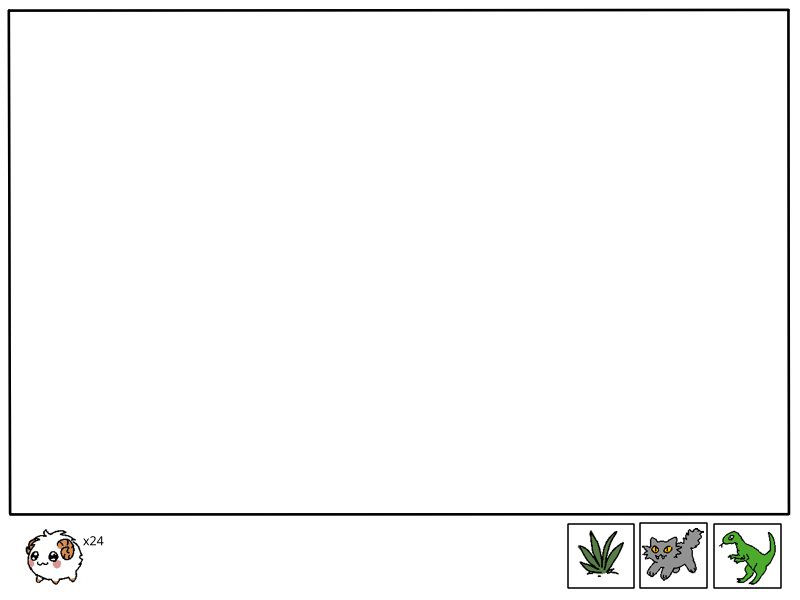
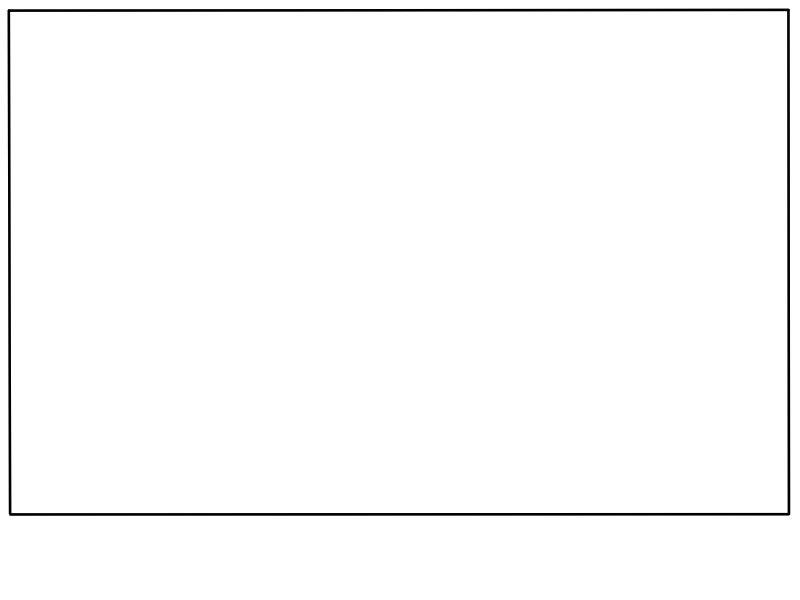
Add basic UI elements

Changed region(s): [[0.6875, 0.87, 1.0, 0.99], [0.0312, 0.87, 0.125, 0.99]]

diff --git a/src/index.ts b/src/index.ts
@@ -1,4 +1,4 @@
-import {range, random} from 'lodash-es';
+import {range, random, values} from 'lodash-es';
 import {Game, Scene, GameObjects, Types, Math as PhaserMath, Geom, Sound} from 'phaser';
 import {deltaInterp} from './Utilities';
 import {Grid} from './Grid';
@@ -7,8 +7,21 @@ import borderImage from './assets/borders.png';
 import uiFrameImage from './assets/ui_frame.png';
 import musicImage from './assets/music.png';
 import noMusicImage from './assets/nomusic.png';
+import powerImage from './assets/power.png';
+import abilityFrameImage from './assets/ability_frame.png';
+import sheepAbilityImage from './assets/sheep_ability.png';
+import grassAbilityImage from './assets/grass_ability.png';
 import musicSound from './assets/music.mp3';
 import clickSound from './assets/click.mp3';
+import failSound from './assets/fail.mp3';
+
+interface Ability {
+  name: string,
+  description: string,
+  image: string,
+  cost: number,
+  do: (grid: Grid, x: number, y: number) => unknown,
+};
 
 export class MainScene extends Scene {
   ui!: GameObjects.Container;
@@ -17,14 +30,21 @@ export class MainScene extends Scene {
   height = 1;
   maxZoom = 5.5;
   keys!: Types.Input.Keyboard.CursorKeys;
-  mouseDown = false;
+  dragging = false;
+  justClicked = false;
   lastMousePosition = new PhaserMath.Vector2();
   newMousePosition = new PhaserMath.Vector2();
   musicToggle!: GameObjects.Image;
+  powerDisplay!: GameObjects.Text;
   gridBounds: Geom.Rectangle = new Geom.Rectangle(10, 10, 778, 504);
   sounds: Record<string, Sound.BaseSound> = {};
   borders!: GameObjects.TileSprite;
-  grid = new Grid(this, 129, 80);
+  grid = new Grid(this, 129, 80, 32);
+  power = 0;
+  powerGainRate = 1;
+  abilities: Record<string, Ability> = {};
+  currentAbility: Ability | null = null;
+  justClickedAbility = false;
 
   constructor() {
     super({key: 'main'});
@@ -35,8 +55,13 @@ export class MainScene extends Scene {
     this.load.image('ui_frame', uiFrameImage);
     this.load.image('music', musicImage);
     this.load.image('nomusic', noMusicImage);
+    this.load.image('ability_frame', abilityFrameImage);
+    this.load.image('sheep_ability', sheepAbilityImage);
+    this.load.image('grass_ability', grassAbilityImage);
+    this.load.image('power', powerImage);
     this.load.audio('music', musicSound);
     this.load.audio('click', clickSound);
+    this.load.audio('fail', failSound);
     this.grid.preload();
   }
 
@@ -67,11 +92,44 @@ export class MainScene extends Scene {
     }
 
     this.keys = this.input.keyboard.createCursorKeys();
+    this.input.mouse.disableContextMenu();
 
     this.ui = this.add.container();
     this.ui.add(this.add.image(0, 0, 'ui_frame').setOrigin(0, 0));
-    this.musicToggle = this.add.image(145, 556, 'music').setScale(0.2).setInteractive().on('pointerdown', this.toggleMusic, this);
+    this.musicToggle = this.add.image(45, 556, 'music').setScale(0.2).setInteractive().on('pointerdown', this.toggleMusic, this);
     this.ui.add(this.musicToggle);
+    this.ui.add(this.add.image(125, 556, 'power').setScale(0.15));
+    this.powerDisplay = this.add.text(155, 526, 'x0', {fontFamily: 'Helvetica', fontSize: '20px', color: '0x000'});
+    this.ui.add(this.powerDisplay);
+
+    this.abilities = {
+      sheep: {
+        name: 'Sheep',
+        description: 'Make a sheep',
+        image: 'sheep_ability',
+        cost: 3,
+        do: (grid, x, y) => {
+          return grid.tryAdd(new Sheep(x, y));
+        },
+      },
+      grass: {
+        name: 'Grass',
+        description: 'Make a grass',
+        image: 'grass_ability',
+        cost: 1,
+        do: (grid, x, y) => {
+          return grid.tryAdd(new Grass(x, y));
+        },
+      }
+    };
+
+    values(this.abilities).map((ability, index) => {
+      const x = this.sys.game.canvas.width - 50 - 80 * index;
+      const frame = this.add.image(x, 556, 'ability_frame');
+      const image = this.add.image(x, 556, ability.image);
+      this.ui.add(frame).add(image);
+      image.setInteractive().on('pointerdown', () => this.startAbility(ability));
+    });
 
     const uiCamera = this.cameras.add(0, 0, this.sys.game.canvas.width, this.sys.game.canvas.height);
     uiCamera.ignore(this.grid.container);
@@ -80,9 +138,9 @@ export class MainScene extends Scene {
 
     this.sounds = {
       music: this.sound.add('music', { loop: true }),
-      click: this.sound.add('click', { volume: 0.4 }),
+      click: this.sound.add('click', { volume: 0.3 }),
+      fail: this.sound.add('fail'),
     };
-    this.sounds.music.play();
   }
 
   toggleMusic() {
@@ -96,6 +154,33 @@ export class MainScene extends Scene {
     }
   }
 
+  startAbility(ability: Ability) {
+    if(this.power > ability.cost) {
+      this.sounds.click.play();
+      this.currentAbility = ability;
+      this.justClickedAbility = true;
+    } else {
+      this.sounds.fail.play();
+    }
+  }
+
+  finishAbility() {
+    if(!this.currentAbility) { return; }
+    if(this.power > this.currentAbility.cost) {
+      const position = this.cameras.main.getWorldPoint(this.input.manager.activePointer.x, this.input.manager.activePointer.y, this.newMousePosition);
+      const x = Math.floor(position.x / this.grid.tileSize);
+      const y = Math.floor(position.y / this.grid.tileSize);
+      if(this.currentAbility.do(this.grid, x, y)) {
+        this.power -= this.currentAbility.cost;
+        this.sounds.click.play();
+      } else {
+        this.sounds.fail.play();
+      }
+    } else {
+      this.sounds.fail.play();
+    }
+  }
+
   update(time: number, delta: number) {
     this.accumulator += delta;
     if(this.accumulator > 1000) {
@@ -104,8 +189,11 @@ export class MainScene extends Scene {
     }
     this.grid.update();
 
+    this.power += this.powerGainRate * delta * 0.001;
+    this.powerDisplay.setText(`x${Math.floor(this.power)}`);
+
     if (this.input.manager.activePointer.leftButtonDown()) {
-      if(this.mouseDown) {
+      if(this.dragging) {
         this.cameras.main.getWorldPoint(this.input.manager.activePointer.x, this.input.manager.activePointer.y, this.newMousePosition);
         const deltaX = this.newMousePosition.x - this.lastMousePosition.x;
         const deltaY = this.newMousePosition.y - this.lastMousePosition.y;
@@ -117,12 +205,30 @@ export class MainScene extends Scene {
         this.lastMousePosition = this.newMousePosition;
         this.newMousePosition = lastMousePosition;
       } else if(this.gridBounds.contains(this.input.manager.activePointer.x, this.input.manager.activePointer.y)) {
-        this.mouseDown = true;
-        this.cameras.main.getWorldPoint(this.input.manager.activePointer.x, this.input.manager.activePointer.y, this.lastMousePosition);
+        if(this.currentAbility) {
+          if(this.justClicked) {
+            this.finishAbility();
+          }
+        } else {
+          this.dragging = true;
+          this.cameras.main.getWorldPoint(this.input.manager.activePointer.x, this.input.manager.activePointer.y, this.lastMousePosition);
+        }
+      } else if(this.currentAbility && this.justClicked && !this.justClickedAbility) {
+        this.currentAbility = null;
+        this.sounds.fail.play();
       }
+      this.justClicked = false;
     } else {
-      this.mouseDown = false;
+      this.dragging = false;
+      this.justClicked = true;
     }
+    if (this.input.manager.activePointer.rightButtonDown()) {
+      if(this.currentAbility) {
+        this.currentAbility = null;
+        this.sounds.fail.play();
+      }
+    }
+    this.justClickedAbility = false;
 
     if(this.gridBounds.contains(this.input.manager.activePointer.x, this.input.manager.activePointer.y)) {
       this.targetHeight += this.input.manager.activePointer.deltaY * 0.005;
@@ -133,8 +239,8 @@ export class MainScene extends Scene {
     this.height = deltaInterp(this.height, this.targetHeight, 10, delta * 0.001);
     this.cameras.main.zoom = 1 / this.height;
 
-    this.cameras.main.scrollY = Math.min(Math.max(this.cameras.main.scrollY, -300), this.grid.height * 32 - (this.sys.game.canvas.height - 300));
-    this.cameras.main.scrollX = Math.min(Math.max(this.cameras.main.scrollX, -300), this.grid.width * 32 - (this.sys.game.canvas.width - 300));
+    this.cameras.main.scrollY = Math.min(Math.max(this.cameras.main.scrollY, -300), this.grid.height * this.grid.tileSize - (this.sys.game.canvas.height - 300));
+    this.cameras.main.scrollX = Math.min(Math.max(this.cameras.main.scrollX, -300), this.grid.width * this.grid.tileSize - (this.sys.game.canvas.width - 300));
     this.borders.tilePositionX = this.borders.x = this.cameras.main.scrollX - this.sys.game.canvas.width * 0.5 * (this.height - 1);
     this.borders.tilePositionY = this.borders.y = this.cameras.main.scrollY - this.sys.game.canvas.height * 0.5 * (this.height - 1);
   }

diff --git a/src/Grid.ts b/src/Grid.ts
@@ -13,7 +13,7 @@ export class Grid {
   startNextStep = false;
   stepProgress: IterableIterator<GridObject> | null = null;
 
-  constructor(private scene: Scene, public width: number, public height: number) {
+  constructor(private scene: Scene, public width: number, public height: number, public tileSize: number) {
     this.directions.push(new PhaserMath.Vector2(1, 0));
     this.directions.push(new PhaserMath.Vector2(-1, 0));
     this.directions.push(new PhaserMath.Vector2(0, 1));
@@ -27,7 +27,7 @@ export class Grid {
 
   create() {
     this.container = this.scene.add.container();
-    this.map = this.scene.make.tilemap({ width: this.width, height: this.height, tileWidth: 32, tileHeight: 32 });
+    this.map = this.scene.make.tilemap({ width: this.width, height: this.height, tileWidth: this.tileSize, tileHeight: this.tileSize });
     const background = this.map.addTilesetImage('background', undefined, 32, 32, 1, 1);
     const backgroundLayer = this.map.createBlankLayer('background', background);
     const foreground = this.map.addTilesetImage('foreground', undefined, 32, 32, 1, 1);
